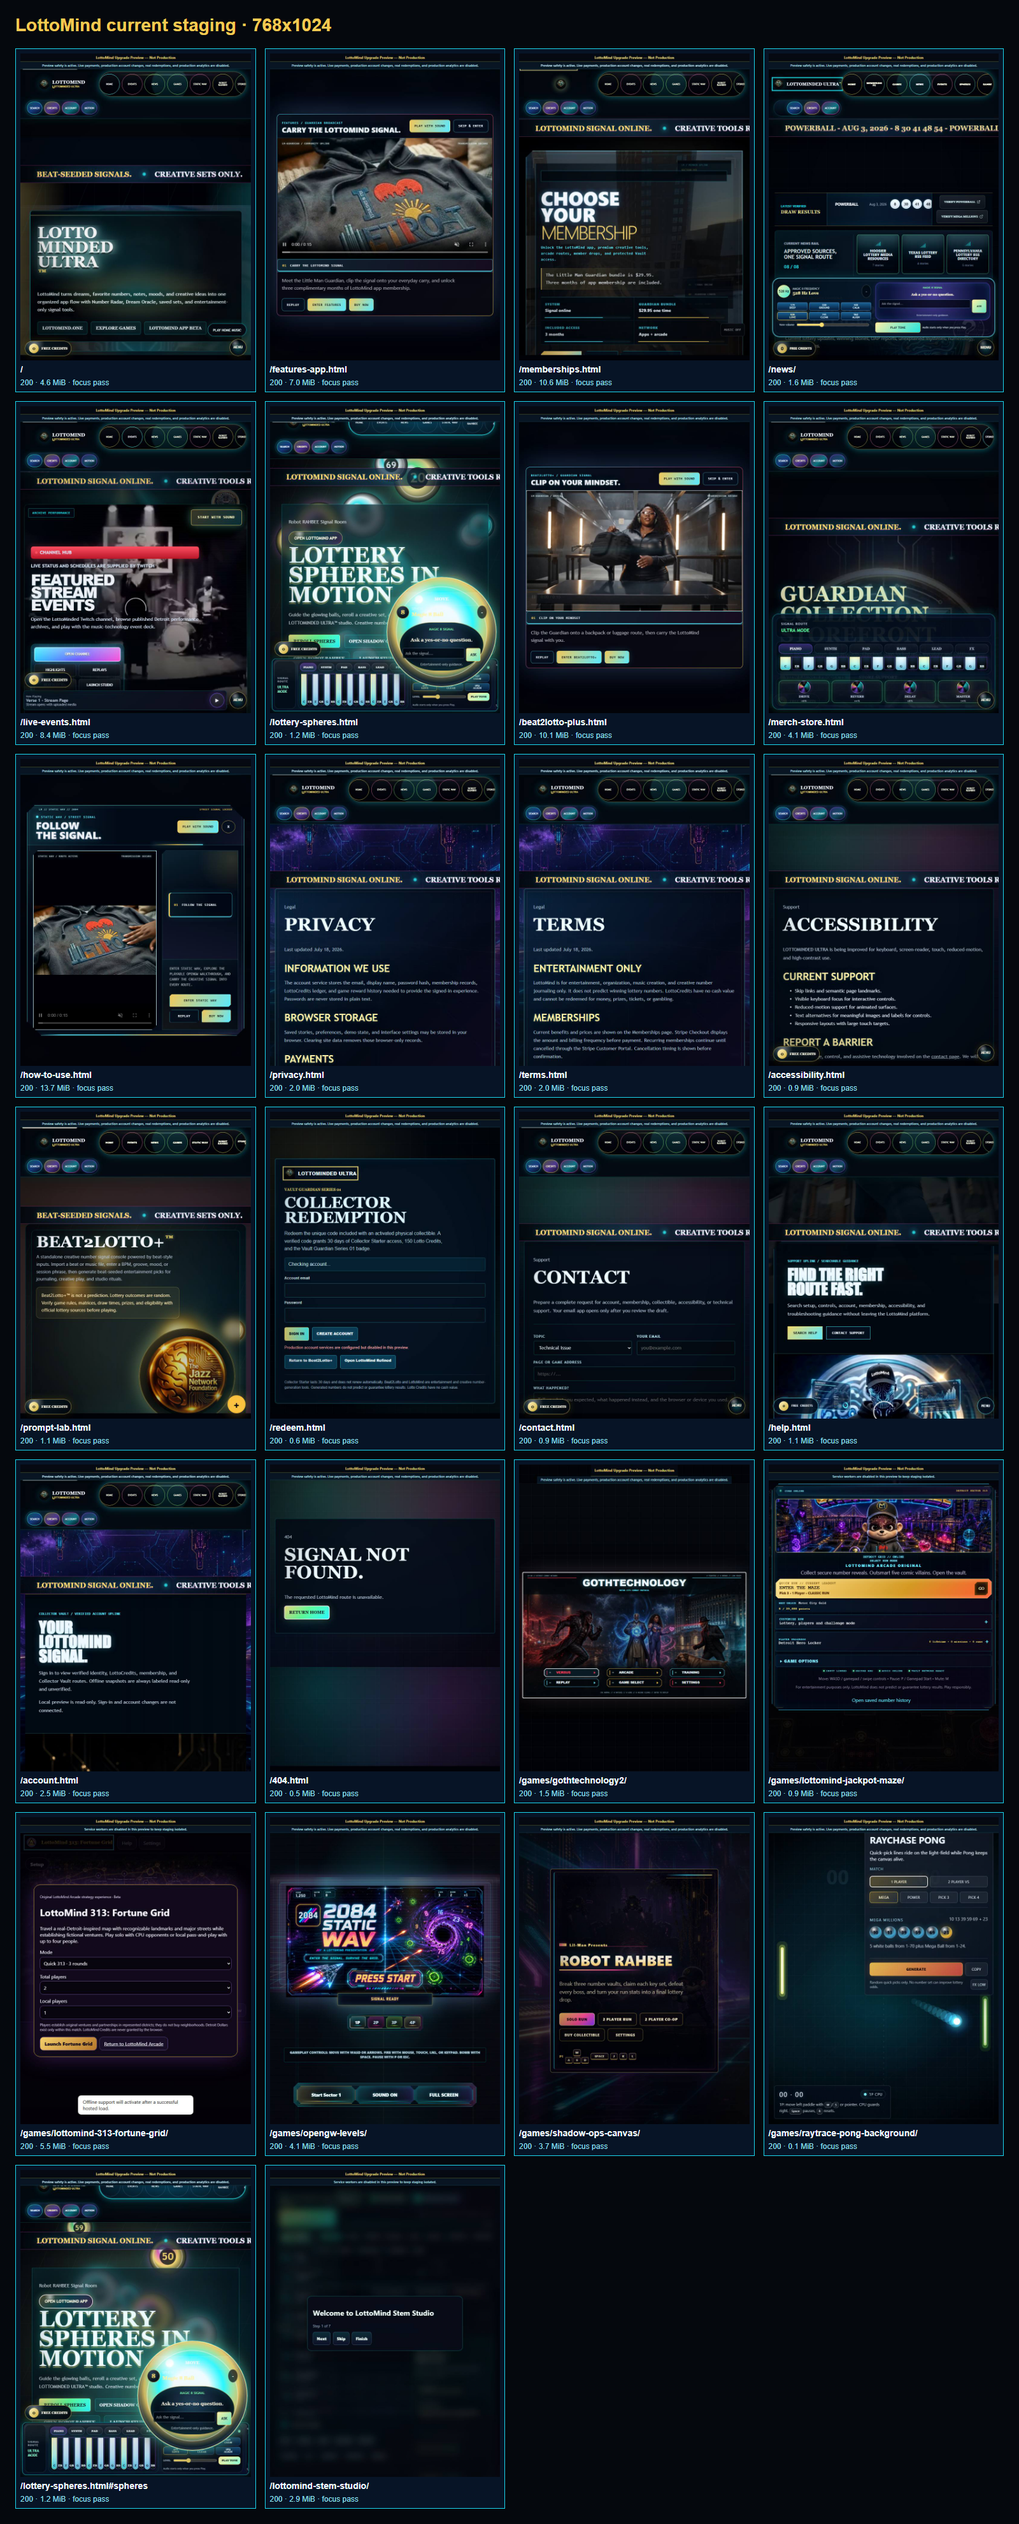
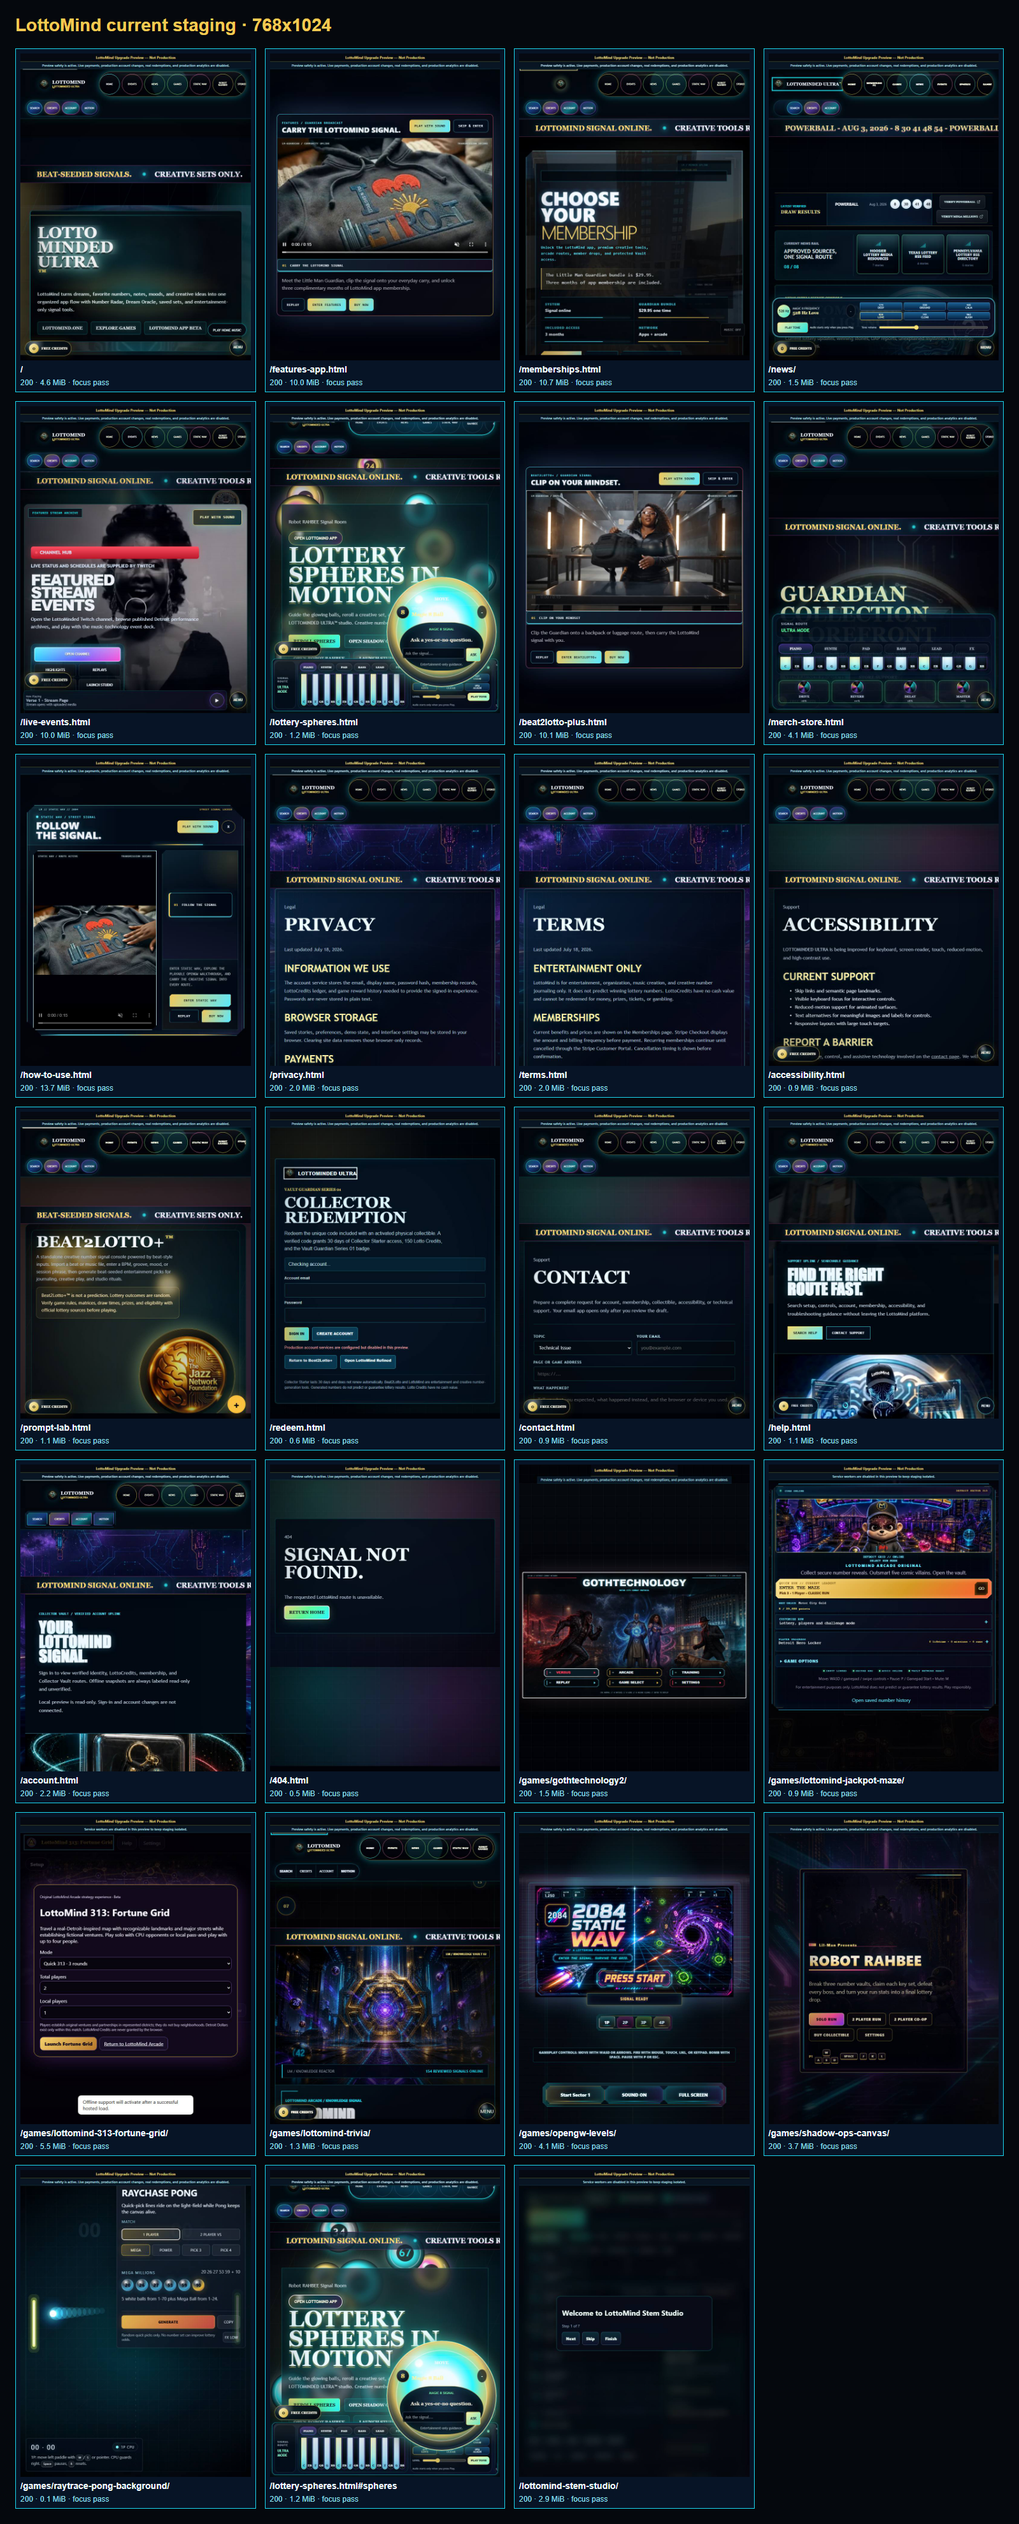
docs: freeze v2-rc6 release evidence

diff --git a/docs/site-rebuild-checklist.md b/docs/site-rebuild-checklist.md
@@ -5,13 +5,13 @@ This matrix records the current release-signoff evidence for the upgrade branch.
 ## Evidence
 
 - Production baseline: `v1-final` at `975c637cea7003533cdc30aed9d96be51929bfc8`, with 69 route captures in [`visual-baseline/v1/`](visual-baseline/v1/)
-- Audited site content: immutable target of annotated tag `v2-rc5`
-- Current staging captures: 78/78 passed across 26 routes at `1440x900`, `768x1024`, and `390x844`
+- Audited site content: immutable target of annotated tag `v2-rc6`; visual source commit `afbf7a58ab89750e65f7051ba34ecefe3057984f`
+- Current staging captures: 81/81 passed across 27 routes at `1440x900`, `768x1024`, and `390x844`
 - Contact sheets: [desktop](staging-reviews/release-signoff-assets/desktop-contact-sheet.png), [tablet](staging-reviews/release-signoff-assets/tablet-contact-sheet.png), and [mobile](staging-reviews/release-signoff-assets/mobile-contact-sheet.png)
 - Machine-readable results: [`release-signoff-manifest.json`](staging-reviews/release-signoff-assets/release-signoff-manifest.json)
 - Route gate: 168/168 passed across source and staging, including Help, Account, visible keyboard focus, reduced motion, console/page errors, same-origin assets, overflow, noindex, preview banner, and environment write protections
-- Current staging artifact: 28 pages, 635 same-origin references, and 12/12 safety checks
-- Review reports: [`release-candidate-v2-rc5.md`](staging-reviews/release-candidate-v2-rc5.md), [`store-membership-definition.md`](staging-reviews/store-membership-definition.md), and [`help-media-release.md`](staging-reviews/help-media-release.md)
+- Current staging artifact: 28 pages, 636 same-origin references, and 12/12 safety checks
+- Review reports: [`release-candidate-v2-rc6.md`](staging-reviews/release-candidate-v2-rc6.md), [`store-membership-definition.md`](staging-reviews/store-membership-definition.md), and [`help-media-release.md`](staging-reviews/help-media-release.md)
 
 ## Sign-Off Matrix
 
@@ -20,11 +20,11 @@ This matrix records the current release-signoff evidence for the upgrade branch.
 | `/` | Sitemap | Pass | Pass | Pass | Pass | Pass | Pass | Pass | Pass | Pass | Measured | Opens directly on the value proposition; story and soundtrack controls remain user accessible |
 | `/features-app.html` | Sitemap | Pass | Pass | Pass | Pass | Pass | Pass | Pass | Pass | Pass | Measured | Current staging sign-off complete |
 | `/memberships.html` | Sitemap | Pass | Pass | Pass | Pass | Pass | Pass | Pass | Pass | Pass | Measured | Assigned soundtrack and visible sound control verified; guarded checkout preserved |
-| `/news/` | Sitemap | Pass | Pass | Pass | Pass | Pass | Pass | Pass | Pass | Pass | Measured | Publisher imagery is cached locally; two desktop-only external assets remain ORB warnings, not same-origin failures |
+| `/news/` | Sitemap | Pass | Pass | Pass | Pass | Pass | Pass | Pass | Pass | Pass | Measured | Publisher imagery is cached locally; final sign-off recorded zero external-asset warnings |
 | `/live-events.html` | Sitemap | Pass | Pass | Pass | Pass | Pass | Pass | Pass | Pass | Pass | Measured | Current staging sign-off complete |
 | `/lottery-spheres.html` | Sitemap | Pass | Pass | Pass | Pass | Pass | Pass | Pass | Pass | Pass | Measured | Current staging sign-off complete |
 | `/beat2lotto-plus.html` | Sitemap | Pass | Pass | Pass | Pass | Pass | Pass | Pass | Pass | Pass | Measured | Current staging sign-off complete |
-| `/merch-store.html` | Sitemap | Pass | Pass | Pass | Pass | Pass | Pass | Pass | Pass | Pass | Measured | Three-product launch catalog reviewed at desktop/mobile; ordering remains locked pending verified fulfillment |
+| `/merch-store.html` | Sitemap | Pass | Pass | Pass | Pass | Pass | Pass | Pass | Pass | Pass | Measured | Two-product launch catalog reviewed at desktop/mobile; ordering remains locked pending verified fulfillment |
 | `/how-to-use.html` | Sitemap | Pass | Pass | Pass | Pass | Pass | Pass | Pass | Pass | Pass | Measured | Current staging sign-off complete |
 | `/privacy.html` | Sitemap | Pass | Pass | Pass | Pass | Pass | Pass | Pass | Pass | Pass | Measured | Current staging sign-off complete |
 | `/terms.html` | Sitemap | Pass | Pass | Pass | Pass | Pass | Pass | Pass | Pass | Pass | Measured | Current staging sign-off complete |
@@ -44,6 +44,7 @@ This matrix records the current release-signoff evidence for the upgrade branch.
 | `/games/opengw-levels/` | Arcade manifest | Pass | Pass | Pass | Pass | Pass | Pass | Pass | Pass | Pass | Measured | Current staging sign-off complete |
 | `/games/shadow-ops-canvas/` | Arcade manifest | Pass | Pass | Pass | Pass | Pass | Pass | Pass | Pass | Pass | Measured | Current staging sign-off complete |
 | `/games/raytrace-pong-background/` | Arcade manifest | Pass | Pass | Pass | Pass | Pass | Pass | Pass | Pass | Pass | Measured | Current staging sign-off complete |
+| `/games/lottomind-trivia/` | Arcade manifest | Not applicable | Pass | Pass | Pass | Pass | Pass | Pass | Pass | Pass | Measured | New Trivia Vault route; 3/3 staging states passed and local-only scores remain clearly separated from verified credits |
 | `/lottery-spheres.html#spheres` | Arcade manifest | Pass | Pass | Pass | Pass | Pass | Pass | Pass | Pass | Pass | Measured | Current staging sign-off complete |
 | `/lottomind-stem-studio/` | Required + arcade | Pass | Pass | Pass | Pass | Pass | Pass | Pass | Pass | Pass | Measured | Current staging sign-off complete |
 

diff --git a/docs/production-release-candidate.md b/docs/production-release-candidate.md
@@ -3,14 +3,14 @@
 ## Release Identity
 
 - Production URL: https://robjasper2084.github.io/Jungle-Lotto/lottominded-ultra.io/
-- Staging URL: Local only (`http://127.0.0.1:8617/` during final visual sign-off)
+- Staging URL: Local only (`http://127.0.0.1:8649/` during final visual sign-off)
 - Production branch: `main`
 - Production SHA: `441127f6d69d3021b9080f48e4246013ca674a6a`
 - Permanent rollback snapshot: `v1-final` at `975c637cea7003533cdc30aed9d96be51929bfc8`
 - Upgrade branch: `upgrade-redesign`
-- Upgrade branch SHA: the immutable target of annotated tag `v2-rc5` (`git rev-list -n 1 v2-rc5`)
-- Release-candidate tag: `v2-rc5`
-- Historical immutable tags: `v2-rc1`, `v2-rc2`, `v2-rc3`, and `v2-rc4`
+- Upgrade branch SHA: the immutable target of annotated tag `v2-rc6` (`git rev-list -n 1 v2-rc6`)
+- Release-candidate tag: `v2-rc6`
+- Historical immutable tags: `v2-rc1`, `v2-rc2`, `v2-rc3`, `v2-rc4`, and `v2-rc5`
 - Step 34 approval: recorded
 - Production merge approval: not recorded for this fresh candidate
 
@@ -20,10 +20,10 @@
 
 - Full source browser suite: 232 passed, 8 intentional viewport skips, 0 failed (240 total).
 - Source/staging route matrix: 168/168 passed across desktop, tablet, and mobile.
-- Release audit: 7/7 groups passed for metadata, structured data, PWA, checkout hooks, offline account behavior, challenges, and share cards.
+- Release audit: all 10 groups passed, covering site validation, routes, staging safety, metadata, structured data, PWA, checkout hooks, offline account behavior, challenges, and share cards.
 - Staging browser safety: 12/12 passed.
-- Static staging artifact: 28 noindexed pages and 635 same-origin references passed.
-- Visual sign-off: 78/78 route states passed across 26 routes at `1440x900`, `768x1024`, and `390x844`.
+- Static staging artifact: 28 noindexed pages and 636 same-origin references passed.
+- Visual sign-off: 81/81 route states passed across 27 routes at `1440x900`, `768x1024`, and `390x844`, including LottoMind Trivia Vault.
 - Live Events media synchronization stress: 24/24 passed across three desktop/mobile repetitions.
 - News data tests: 24/24 passed.
 - Trivia tests: 13/13 passed.
@@ -38,7 +38,7 @@ Visible keyboard focus, reduced-motion behavior, responsive containment, console
 
 Initial Membership and Arcade media are deferred, embedded games launch lazily, Storefront media and motion are reduced, and off-screen media behavior is covered by the browser suite. The visual manifest measured a 2.0 MiB median same-origin transfer and a 13.9 MiB maximum; Static Wav and Memberships remain the heaviest first-view routes. These are measurements, not an invented performance guarantee.
 
-The News static build now caches 41 publisher-supplied article images as 40 local assets totaling 9.77 MiB. Two desktop-only external publisher images were blocked by browser ORB policy and are recorded as warnings; no same-origin asset failed.
+The News static build caches publisher-supplied article imagery locally. The corrected visual sign-off recorded zero external-asset warnings and zero same-origin asset failures.
 
 ## SEO Summary
 
@@ -61,7 +61,6 @@ Supabase migrations and Edge Functions define the production authority boundarie
 - Remote staging is unavailable; the reviewed preview is local only.
 - Manual screen-reader review remains recommended.
 - Static Wav and Memberships remain the heaviest first-view routes.
-- Two external publisher images on the desktop News capture were blocked by browser ORB policy; local publisher-image fallbacks cover the article grid.
 - Browser autoplay policy can require a user gesture before audible media starts; explicit sound controls remain available.
 - Store ordering remains locked pending verified operations.
 
@@ -75,7 +74,7 @@ Changed systems include shared navigation, transitions, sound controls, staging 
 
 - Permanent v1 baseline: [`visual-baseline/v1/`](visual-baseline/v1/)
 - Full current sign-off: [`staging-reviews/release-signoff-assets/`](staging-reviews/release-signoff-assets/)
-- Candidate review: [`staging-reviews/release-candidate-v2-rc5.md`](staging-reviews/release-candidate-v2-rc5.md)
+- Candidate review: [`staging-reviews/release-candidate-v2-rc6.md`](staging-reviews/release-candidate-v2-rc6.md)
 
 Compared with v1, the candidate adds clearer platform relationships, account and support surfaces, the Fortune Grid route, repaired Jackpot Maze rendering, publisher-supplied News imagery, explicit membership and Storefront safety states, and richer media controls. The Detroit-inspired black, gold, cyan, and violet system, Guardian and orb artwork, music-technology controls, original arcade character, cinematic identity, and responsible-entertainment language remain recognizable on desktop, tablet, and mobile.
 

diff --git a/docs/site-rebuild-release-report.md b/docs/site-rebuild-release-report.md
@@ -6,8 +6,8 @@
 - Production: `main` at `441127f6d69d3021b9080f48e4246013ca674a6a`
 - Permanent rollback snapshot: `v1-final` at `975c637cea7003533cdc30aed9d96be51929bfc8`
 - Upgrade branch: `upgrade-redesign`
-- Audited candidate: annotated tag `v2-rc5`
-- Staging URL: Local only (`http://127.0.0.1:8617/` during visual verification)
+- Audited candidate: annotated tag `v2-rc6`
+- Staging URL: Local only (`http://127.0.0.1:8649/` during visual verification)
 - Production state: unchanged by Step 34
 
 ## Verification Summary
@@ -15,9 +15,9 @@
 - 232 source browser checks passed with 8 intentional viewport skips and 0 failures.
 - 168/168 source/staging route checks passed.
 - 12/12 staging browser safety checks passed.
-- 28 generated staging pages and 635 same-origin references passed static verification.
-- Seven release-audit groups passed.
-- 78/78 visual states passed across 26 routes at desktop, tablet, and mobile sizes.
+- 28 generated staging pages and 636 same-origin references passed static verification.
+- All 10 release-audit groups passed.
+- 81/81 visual states passed across 27 routes at desktop, tablet, and mobile sizes, including Trivia Vault.
 - Live Events media synchronization passed 24/24 repeated checks.
 - News passed 24/24; Trivia passed 13/13; GothTechnology passed 43/43 unit and 27 browser checks.
 
@@ -29,7 +29,7 @@ Keyboard focus, reduced motion, responsive overflow, console/page errors, same-o
 
 Initial Membership and Arcade media are deferred, game iframes launch lazily, Storefront media and motion are reduced, and Live Events film/audio synchronization is stable. The visual audit measured a 2.0 MiB median and 13.9 MiB maximum same-origin transfer. Static Wav and Memberships remain the heaviest routes.
 
-Publisher-supplied News images are cached locally for 41 of 56 articles. Two external publisher assets were blocked by browser ORB policy during the desktop capture; they are warnings rather than broken same-origin assets.
+Publisher-supplied News images are cached locally. The corrected final capture recorded zero external-asset warnings and zero broken same-origin assets.
 
 ## SEO, Metadata, PWA, And Safety
 
@@ -45,11 +45,11 @@ Store ordering remains locked until inventory, shipping, tax, returns, confirmat
 
 - Baseline: [`visual-baseline/v1/`](visual-baseline/v1/)
 - Full current sign-off: [`staging-reviews/release-signoff-assets/`](staging-reviews/release-signoff-assets/)
-- Candidate review: [`staging-reviews/release-candidate-v2-rc5.md`](staging-reviews/release-candidate-v2-rc5.md)
+- Candidate review: [`staging-reviews/release-candidate-v2-rc6.md`](staging-reviews/release-candidate-v2-rc6.md)
 
 ## Release Recommendation
 
-Create immutable tag `v2-rc5` and an unmerged pull request from `upgrade-redesign` to `main`. Production must remain unchanged until the pull request is reviewed and a fresh exact `APPROVE PRODUCTION MERGE` authorization is supplied.
+Create immutable tag `v2-rc6` and keep pull request #5 unmerged from `upgrade-redesign` to `main`. Production must remain unchanged until the pull request is reviewed and a fresh exact `APPROVE PRODUCTION MERGE` authorization is supplied after this candidate exists.
 
 Rollback after any future approved merge uses a normal merge revert:
 

diff --git a/docs/staging-reviews/release-candidate-v2-rc6.md b/docs/staging-reviews/release-candidate-v2-rc6.md
@@ -1,0 +1,46 @@
+# Release Candidate v2-rc6 Review
+
+- Review date: 2026-08-09
+- Branch: `upgrade-redesign`
+- Candidate SHA: immutable target of annotated tag `v2-rc6`
+- Visual source SHA: `afbf7a58ab89750e65f7051ba34ecefe3057984f`
+- Production reference: `main` at `441127f6d69d3021b9080f48e4246013ca674a6a`
+- Staging URL: Local only (`http://127.0.0.1:8649/` during verification)
+- Candidate tag: `v2-rc6`
+- Approval status: **Ready for production review**
+
+## Verification
+
+- Full source browser suite: 232 passed, 8 intentional skips, 0 failed.
+- Route matrix: 168/168 passed.
+- Release audit: all 10 groups passed.
+- Staging safety: 12/12 passed.
+- Static artifact: 28 noindexed pages and 636 same-origin references passed.
+- Visual sign-off: 81/81 desktop, tablet, and mobile route states passed across 27 routes.
+- Live Events synchronization stress: 24/24 passed.
+- News: 24/24; Trivia: 13/13; GothTechnology: 43/43 unit and 27 browser checks passed.
+- Secure backend contract passed for eight RLS-protected tables and the append-only credit ledger.
+
+## Checkout Safety
+
+The authenticated Collector flow previously opened the Gold plan in Stripe Checkout with a visible `Sandbox` marker. No payment details were entered, no payment was submitted, and no charge was attempted. Staging live payments, production account writes, real redemptions, and production analytics remain blocked.
+
+Store ordering remains fail-closed. Inventory, shipping, tax, returns, confirmation email, and carrier tracking require final operational verification before merchandise checkout can be enabled.
+
+## Visual Review
+
+All 27 routes passed at `1440x900`, `768x1024`, and `390x844` with visible focus, reduced-motion behavior, no horizontal overflow, no console/page errors, no broken same-origin assets, and zero external-asset warnings. The manifest measured same-origin transfers from 64,057 bytes to 14,589,047 bytes, with a median of 2,088,800 bytes.
+
+This candidate adds the finished Trivia Vault route and retains the current account, Storefront, Live Events, Arcade, navigation, media, and support corrections. The Detroit-inspired black, gold, cyan, and violet styling, Guardian artwork, music-technology controls, cinematic media, and responsible-entertainment language remain recognizable.
+
+## Remaining Warnings
+
+- Staging is local only; no remote staging provider is configured.
+- Manual screen-reader review remains recommended.
+- Static Wav and Memberships remain the heaviest measured first-view routes.
+- Browser autoplay policy can require a user gesture before audible media starts; explicit sound controls remain available.
+- Store ordering remains locked pending verified operations.
+
+## Decision
+
+Ready for production review. This review does not authorize merging or deploying `main`. A fresh exact `APPROVE PRODUCTION MERGE` is required after the candidate tag and PR head are verified.

diff --git a/docs/upgrade-redesign-status.md b/docs/upgrade-redesign-status.md
@@ -846,3 +846,18 @@
 - Production integrations blocked in staging: live payments, production account writes, real redemptions, and production analytics
 - Remaining warnings: local-only staging, manual screen-reader review recommended, two external News publisher ORB warnings, heavy Static Wav and Memberships first-view transfers, and Store ordering locked pending verified operations
 - Approval status: Ready for production review; production remains unchanged and a fresh exact `APPROVE PRODUCTION MERGE` is required after pull-request review
+
+## Step 34 - Production Release Candidate v2-rc6
+
+- Step number: 34
+- Branch: `upgrade-redesign`
+- Candidate SHA: immutable target of annotated tag `v2-rc6`
+- Visual source SHA: `afbf7a58ab89750e65f7051ba34ecefe3057984f`
+- Tests: 232 source browser checks passed with 8 intentional skips; 168/168 route checks; all 10 release-audit groups; 12/12 staging safety; 24/24 Live Events sync stress; 24/24 News; 13/13 Trivia; 43/43 GothTechnology unit plus 27 browser checks
+- Staging build: 28 noindexed pages and 636 same-origin references
+- Visual sign-off: 81/81 route states across 27 routes at `1440x900`, `768x1024`, and `390x844`; zero external-asset warnings
+- Staging URL: Local only (`http://127.0.0.1:8649/` during final visual sign-off)
+- Checkout safety: authenticated Gold checkout was previously verified in Stripe Sandbox; no payment details, submission, or charge
+- Production integrations blocked in staging: live payments, production account writes, real redemptions, and production analytics
+- Remaining warnings: local-only staging, manual screen-reader review recommended, heavy Static Wav and Memberships first-view transfers, browser-dependent audible autoplay, and Store ordering locked pending verified operations
+- Approval status: Ready for production review; production remains unchanged and a fresh exact `APPROVE PRODUCTION MERGE` is required after pull-request review
